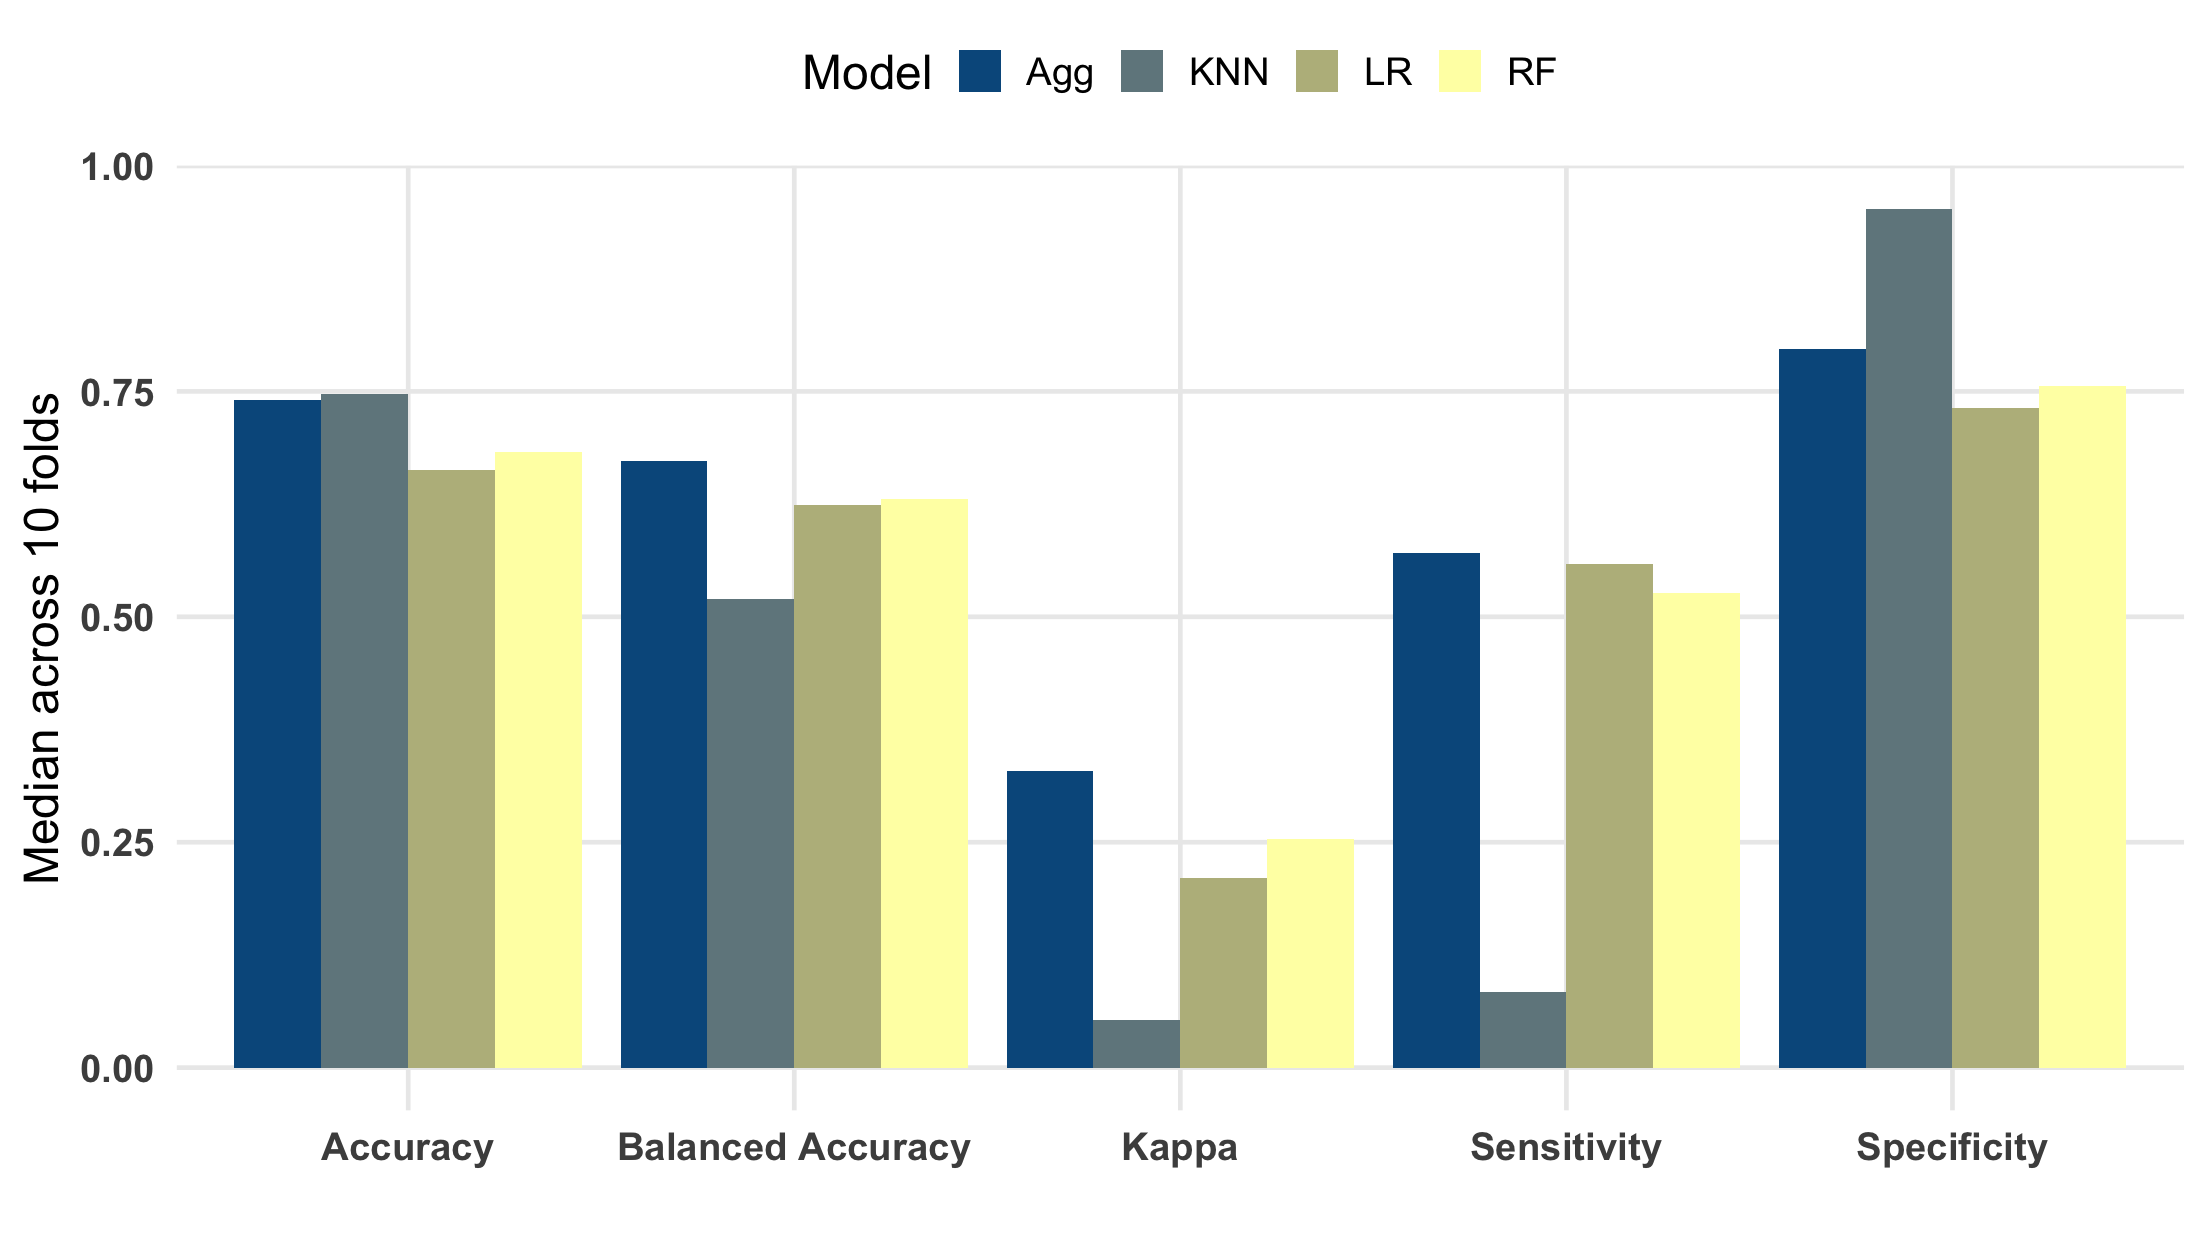
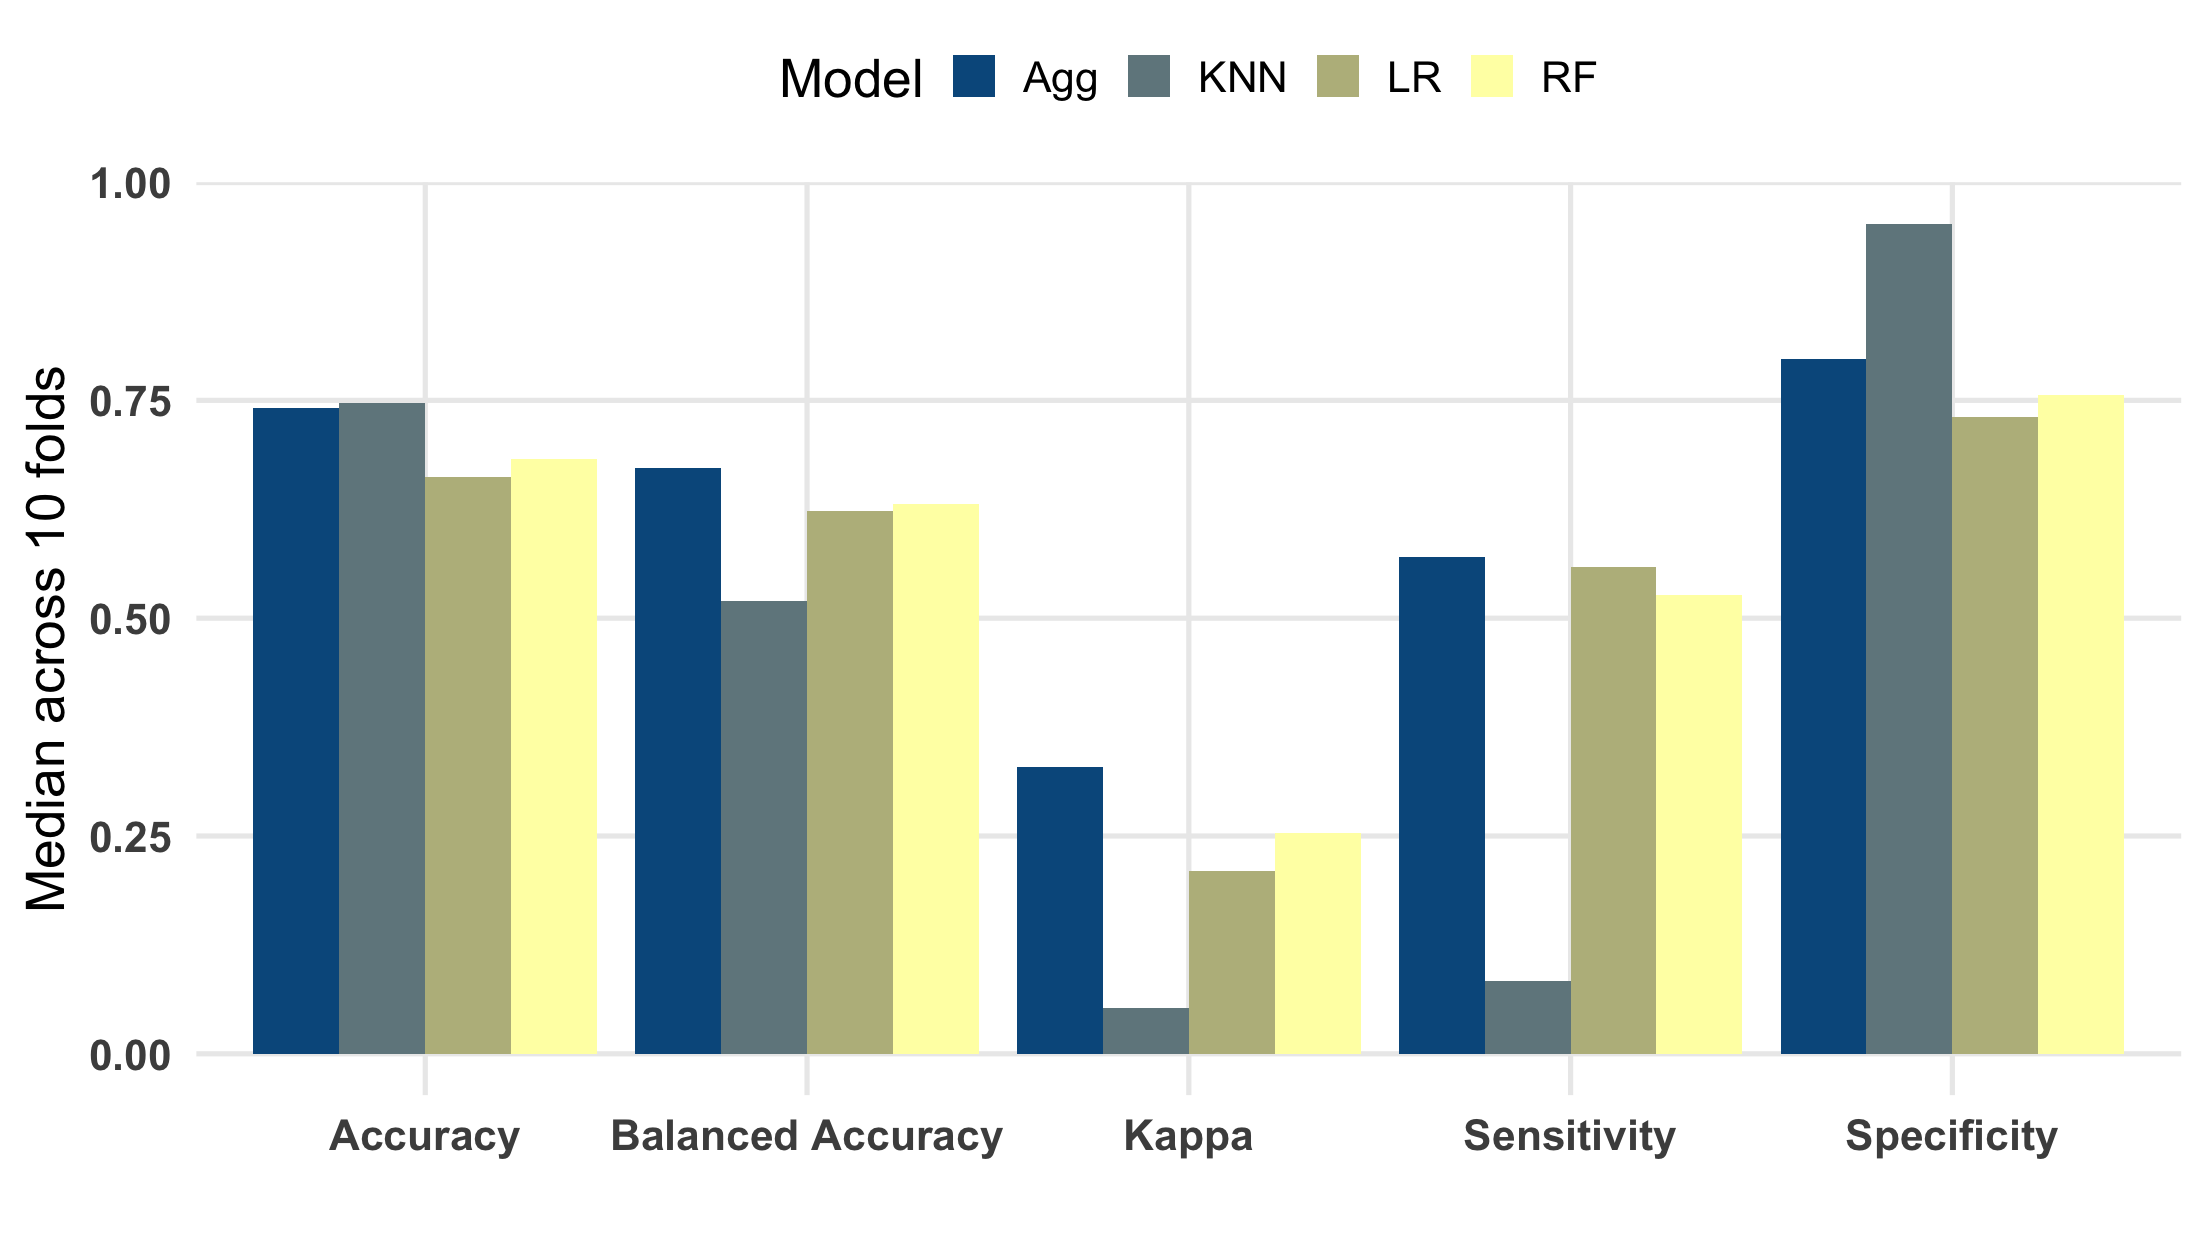
luv to commit to master
- updates after proofreading
- up the font size on the figure

diff --git a/content/post/20190915-predicting-top-songs-pt2.html b/content/post/20190915-predicting-top-songs-pt2.html
@@ -29,7 +29,7 @@ library(tidymodels)
 library(zeallot)
 
 theme_set(
-  theme_minimal(base_size = 18) +
+  theme_minimal(base_size = 20) +
     theme(
       panel.grid.minor = element_blank(),
       axis.text        = element_text(face = &quot;bold&quot;)
@@ -42,7 +42,6 @@ tracks &lt;- read_csv(&quot;../../static/data/predicting-top-songs/20190915-ts-t
 tracks &lt;- tracks %&gt;%
   mutate(
     is_target     = factor(is_target),
-    playlist_year = factor(playlist_year),
     
     keygroup = case_when(
       key_mode %in% c(
@@ -185,7 +184,7 @@ stacked_res &lt;- map2_df(.x = ts_cvdat$splits, .y = ts_cvdat$id, ~ts_stacked(.x
 <ul>
 <li>Similar to accuracy, but adjusts to account for agreement based on chance alone. Often helpful when classes are imbalanced (e.g. in this context).</li>
 </ul>
-<p>Each one of these measures can be computed using a function from <strong><em>yardstick</em></strong>, e.g. <code>spec()</code> and <code>sens()</code>, which accept a tibble/data.frame and expect columns representing predictions and actual class values (in the case of classification). We can create a special list for each of our metrics using <code>yardstick::metric_set()</code>, and then apply each of them to columns in a tibble. Handily, you can neatly combine a metric set with <code>group_by()</code>, which enables us to concisely summarize performance across all the folds/models. Let’s take a peek at the median performance for each model using a bar plot. Handily, each of these measures range from 0 to 1, with 1 representing the highest performance.</p>
+<p>Each one of these measures can be computed using a function from <strong><em>yardstick</em></strong>, e.g. <code>spec()</code> and <code>sens()</code>, which accept a tibble/data.frame and expect columns representing predictions and actual class values (in the case of classification). We can create a special list for each of our metrics using <code>yardstick::metric_set()</code>, and then apply each of them to columns in a tibble. Handily, you can use a metric set in tandem with <code>group_by()</code>, which enables us to concisely summarize performance across all the folds/models. Let’s take a peek at the median performance for each model using a bar plot. Also note that each of these measures range from 0 to 1, with 1 representing the highest performance.</p>
 <pre class="r"><code>class_metrics &lt;- metric_set(sens, spec, accuracy, kap, bal_accuracy)
 
 train_cv_results &lt;- 
